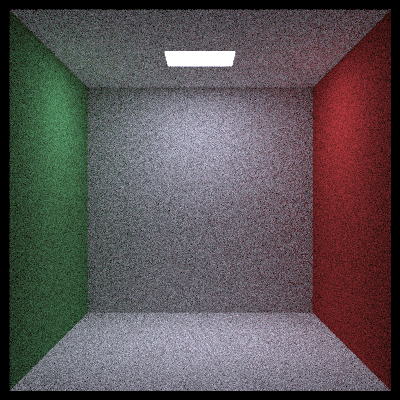
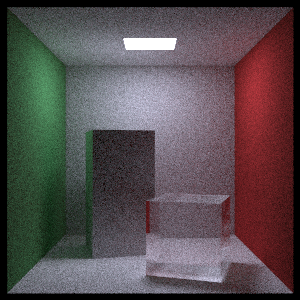
update shape

diff --git a/Assets/Editor/Tracing/AssetsTest.cs b/Assets/Editor/Tracing/AssetsTest.cs
@@ -150,6 +150,43 @@ namespace RT1
             var finalList = hitables.Where(h => h != null).ToArray();
             return new BVHNode(finalList,0,finalList.Length,0,1);
         }
+        static Hitable FinalTest()
+        {
+            int nb = 20;
+            Hitable[] list = new Hitable[30];
+            Hitable[] boxlist = new Hitable[10000];
+            Material ground = new Lambertian(new SolidTexture(new vec3(0.48f, 0.83f, 0.53f)));
+            int b = 0;
+            for (int i = 0; i < nb; i++)
+            {
+                for (int j = 0; j < nb; j++)
+                {
+                    float w = 100;
+                    float x0 = -1000 + i * w;
+                    float z0 = -1000 + j * w;
+                    float y0 = 0;
+                    float x1 = x0 + w;
+                    float y1 = 100 * (Exten.rand01() + 0.01f);
+                    float z1 = z0 + w;
+                    boxlist[b++] = new Box(new vec3(x0, y0, z0), new vec3(x1, y1, z1), ground);
+                }
+            }
+            int l = 0;
+            list[l++] = new BVHNode(boxlist,0, b, 0, 1);
+            Material light = new DiffuseLight(new SolidTexture(new vec3(7, 7, 7)));
+            list[l++] = new XZRect(554, 123, 423, 147, 412,   light);
+            vec3 center = new vec3(400, 400, 200);
+            //public Sphere(vec3 c, vec3 c1, float r, Material m, float time1, float time2)
+            list[l++] = new Sphere(center, center + new vec3(30, 0, 0), 50, new Lambertian(new SolidTexture(new vec3(0.7f, 0.3f, 0.1f))), 0, 1);
+            list[l++] = new Sphere(new vec3(260, 150, 45), 50, new Dieletric(1.5f));
+            list[l++] = new Sphere(new vec3(0, 150, 145), 50, new Metal(new vec3(0.8f, 0.8f, 0.9f), 10.0f));
+            Hitable boundary = new Sphere(new vec3(360, 150, 145), 70, new Dieletric(1.5f));
+            list[l++] = boundary;
+            boundary = new Sphere(new vec3(0, 0, 0), 5000, new Dieletric(1.5f));
+            Texture pertext = new NoiseTexture(new Noise());
+            list[l++] = new Sphere(new vec3(220, 280, 300), 80, new Lambertian(pertext));
+            return new HitList(list.Where(arg => arg !=null).ToArray());
+        }
         static Hitable CornellBox()
         {
             var red = new Lambertian(new vec3(0.65f, 0.05f, 0.05f));
@@ -164,8 +201,13 @@ namespace RT1
             hitables[i++] = new XZRect(0, 0, 555, 0, 555, white);
             hitables[i++] = new XZRect(555, 0, 555, 0, 555, white,true);
             hitables[i++] = new XYRect(555, 0, 555, 0, 555, white,true);
-            hitables[i++] = new Box(new vec3(130, 0, 65), new vec3(295, 165, 230), white);
-            hitables[i++] = new Box(new vec3(265, 0, 295), new vec3(430, 330, 460), white);
+
+            Hitable box = new Box(new vec3(0, 0, 0), new vec3(165, 165, 165), new Dieletric(1.5f));
+            box = new Tranlate(new RotateY(box, -18), new vec3(130, 0, 65));
+            hitables[i++] = box;
+            Hitable box2 = new Box(new vec3(0, 0, 0), new vec3(165, 330, 165), white);
+            box2 = new Tranlate(new RotateY(box2, 15), new vec3(265, 0, 295));
+            hitables[i++] = box2;
             return new HitList(hitables.Where(p=>p!=null).ToArray());
         }
 #if UNITY_EDITOR
@@ -215,7 +257,7 @@ namespace RT1
             {
                 bvh = bool.Parse(args[4]);
             }
-            scene = CornellBox();// SimpleLight(); //random_scene(bvh);
+            scene = FinalTest();// CornellBox();// SimpleLight(); //random_scene(bvh);
 
             vec3 lookfrom = new vec3(278, 278, -800);
             vec3 lookat = new vec3(278, 278, 0);

diff --git a/Assets/Editor/Tracing/Shape.cs b/Assets/Editor/Tracing/Shape.cs
@@ -287,6 +287,74 @@ namespace RT1
             return _sideList.Hit(ray, min, max, out r);
         }
     }
+    class Tranlate : Hitable
+    {
+        vec3 _offset;
+        Hitable _inner;
+        public Tranlate(Hitable hitable, vec3 o)
+        {
+            _inner = hitable;
+            _offset = o;
+        }
+        public AABB BoundVolume(float t0, float t1)
+        {
+            var b = _inner.BoundVolume(t0,t1);
+            return new AABB(b._min + _offset, b._max + _offset);
+        }
+
+        public bool Hit(Ray ray, float min, float max, out HitRecord r)
+        {
+            var newRay = new Ray(ray.position - _offset, ray.direction, ray.time);
+            if (_inner.Hit(newRay, min, max, out r))
+            {
+                r.point += _offset;
+                return true;
+            }
+            return false;
+        }
+    }
+    class RotateY : Hitable
+    {
+        Hitable _inner;
+        float cos_theta;
+        float sin_theta;
+        public RotateY(Hitable hitable,float angle)
+        {
+            _inner = hitable;
+            float radians = (MathF.PI  / 180.0f) * angle;
+            sin_theta = MathF.Sin(radians);
+            cos_theta = MathF.Cos(radians);
+        }
+        public AABB BoundVolume(float t0, float t1)
+        {
+            return _inner.BoundVolume(t0,t1);
+        }
+
+        public bool Hit(Ray ray, float min, float max, out HitRecord r)
+        {
+            vec3 origin = ray.position;
+            vec3 direction = ray.direction;
+            origin[0] = cos_theta * ray.position[0] - sin_theta * ray.position[2];
+            origin[2] = sin_theta * ray.position[0] + cos_theta * ray.position[2];
+            direction[0] = cos_theta * ray.direction[0] - sin_theta * ray.direction[2];
+            direction[2] = sin_theta * ray.direction[0] + cos_theta * ray.direction[2];
+            var rotated_r = new Ray(origin, direction, ray.time);
+            if (_inner.Hit(rotated_r, min, max, out r))
+            {
+                vec3 normal = r.normal;
+                var x = cos_theta * r.point[0] + sin_theta * r.point[2];
+                var z = -sin_theta * r.point[0] + cos_theta * r.point[2];
+                r.point = new vec3(x, r.point.y, z);
+                x = cos_theta * r.normal[0] + sin_theta * r.normal[2];
+                z = -sin_theta * r.normal[0] + cos_theta * r.normal[2];
+                r.normal = glm.normalize(new vec3(x, r.normal.y, z));
+
+                return true;
+            }
+            else
+                return false;
+        }
+    }
     class HitList : Hitable
     {
         Hitable[] _hitables;

diff --git a/Assets/Editor/TestTracing.cs b/Assets/Editor/TestTracing.cs
@@ -34,9 +34,13 @@ namespace GlmNet
         {
             return UnityEngine.Mathf.Pow(f, p);
         }
-        public static float Sin(float angle)
+        public static float Sin(float radians)
         {
-            return UnityEngine.Mathf.Sin(angle);
+            return UnityEngine.Mathf.Sin(radians);
+        }
+        public static float Cos(float radians)
+        {
+            return UnityEngine.Mathf.Cos(radians);
         }
     }
 }
